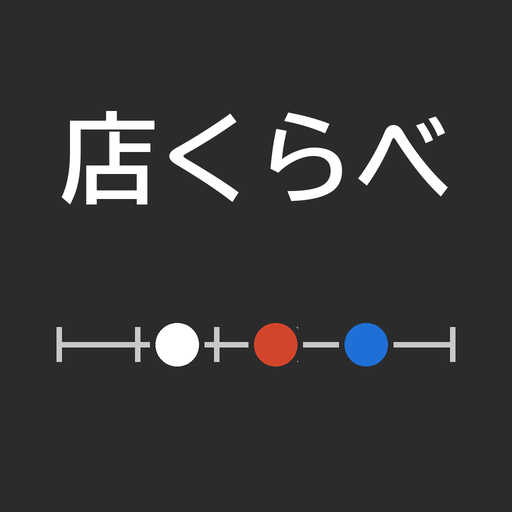
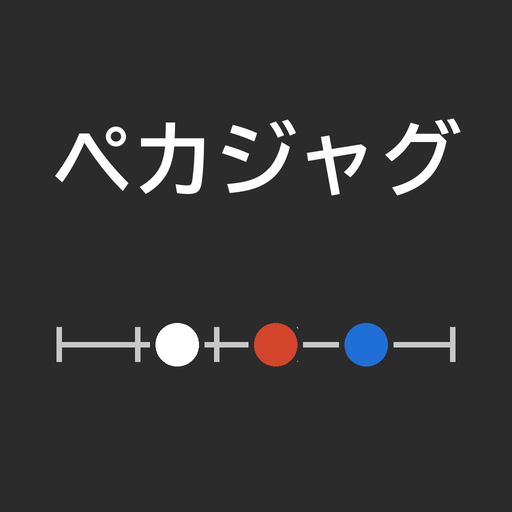
サイト名を「ペカジャグ観測所」に変える（ホーム画面はペカジャグ）
「店くらべ」がダサい、というアキラさんの要望で名前を決め直した（2026-09-27）。
「ペカログ」は同名のジャグラー記録アプリがあるので避けた。

Changed region(s): [[0.0938, 0.2188, 0.9062, 0.4062]]

diff --git a/notes.html b/notes.html
@@ -8,10 +8,10 @@
 <link rel="icon" href="icons/favicon.ico">
 <link rel="apple-touch-icon" href="icons/apple-touch-icon.png">
 <meta name="apple-mobile-web-app-capable" content="yes">
-<meta name="apple-mobile-web-app-title" content="店くらべ">
+<meta name="apple-mobile-web-app-title" content="ペカジャグ">
 <meta name="theme-color" content="#2b2b2b">
-<title>数字の出し方 — ジャグラー 店くらべ</title>
-<link rel="stylesheet" href="style.css?v=20260927c">
+<title>数字の出し方 — ペカジャグ観測所</title>
+<link rel="stylesheet" href="style.css?v=20260927d">
 <style>
 main h2{font-size:17px;margin:22px 0 6px;padding-top:8px;border-top:1px solid var(--line)}
 main p,main li{font-size:14px}
@@ -20,7 +20,7 @@ main td,main th{border:1px solid var(--line);padding:4px 8px;text-align:left}
 </style>
 </head>
 <body>
-<header class="top"><h1>数字の出し方</h1><p class="lead"><a href="index.html">← 店くらべに戻る</a></p></header>
+<header class="top"><h1>数字の出し方</h1><p class="lead"><a href="index.html">← ペカジャグ観測所に戻る</a></p></header>
 <main>
 <h2 id="source">1. データの出どころ</h2>
 <p>各ホールが公開している台データを人が自分のブラウザで閲覧し、<b>店×機種×日の合計</b>（回転数・BIG回数・REG回数）だけを記録しています。台ごとの数値と台番号は、<a href="#top10">台ごとトップ10</a>に載る上位の台だけです。元の表や画像は載せていません。取得は自動ではなく、閉店後に1日1回、人の手で行っています。</p>

diff --git a/index.html b/index.html
@@ -8,16 +8,16 @@
 <link rel="icon" href="icons/favicon.ico">
 <link rel="apple-touch-icon" href="icons/apple-touch-icon.png">
 <meta name="apple-mobile-web-app-capable" content="yes">
-<meta name="apple-mobile-web-app-title" content="店くらべ">
+<meta name="apple-mobile-web-app-title" content="ペカジャグ">
 <meta name="theme-color" content="#2b2b2b">
-<title>ジャグラー 店くらべ</title>
+<title>ペカジャグ観測所</title>
 <meta name="description" content="苫小牧のホールのジャグラーについて、REG・合算の実測がメーカー公表値の設定1〜6のどこに位置するかを店ごとに並べています。">
 <!-- ?v= は画面のファイルを変えたら書き換える。スマホが古い app.js を使い続けないように（2026-09-25） -->
-<link rel="stylesheet" href="style.css?v=20260927c">
+<link rel="stylesheet" href="style.css?v=20260927d">
 </head>
 <body>
 <header class="top">
-  <h1>ジャグラー 店くらべ <small>苫小牧</small></h1>
+  <h1>ペカジャグ観測所 <small>苫小牧</small></h1>
   <p class="lead">実測を公表値の目盛りに置いただけ。右にあるほど設定を使っている可能性が高い。<a href="notes.html">数字の出し方</a></p>
 </header>
 <main id="app">
@@ -50,6 +50,6 @@
   <section id="rows"></section>
   <p class="foot">最終更新 <span id="updated"></span> ／ 台ごとの数値は「台ごとトップ10」だけ。<a href="notes.html">注記</a></p>
 </main>
-<script src="app.js?v=20260927c"></script>
+<script src="app.js?v=20260927d"></script>
 </body>
 </html>

diff --git a/README.md b/README.md
@@ -1,4 +1,4 @@
-# ジャグラー 店くらべ（公開サイト）
+# ペカジャグ観測所（公開サイト）
 
 見るだけのサイト。データは `data/` の JSON だけで、取り込みアプリ
 （`C:\Users\Owner\juggler-analyzer-paste`）の `juggler export-public` が書く。
